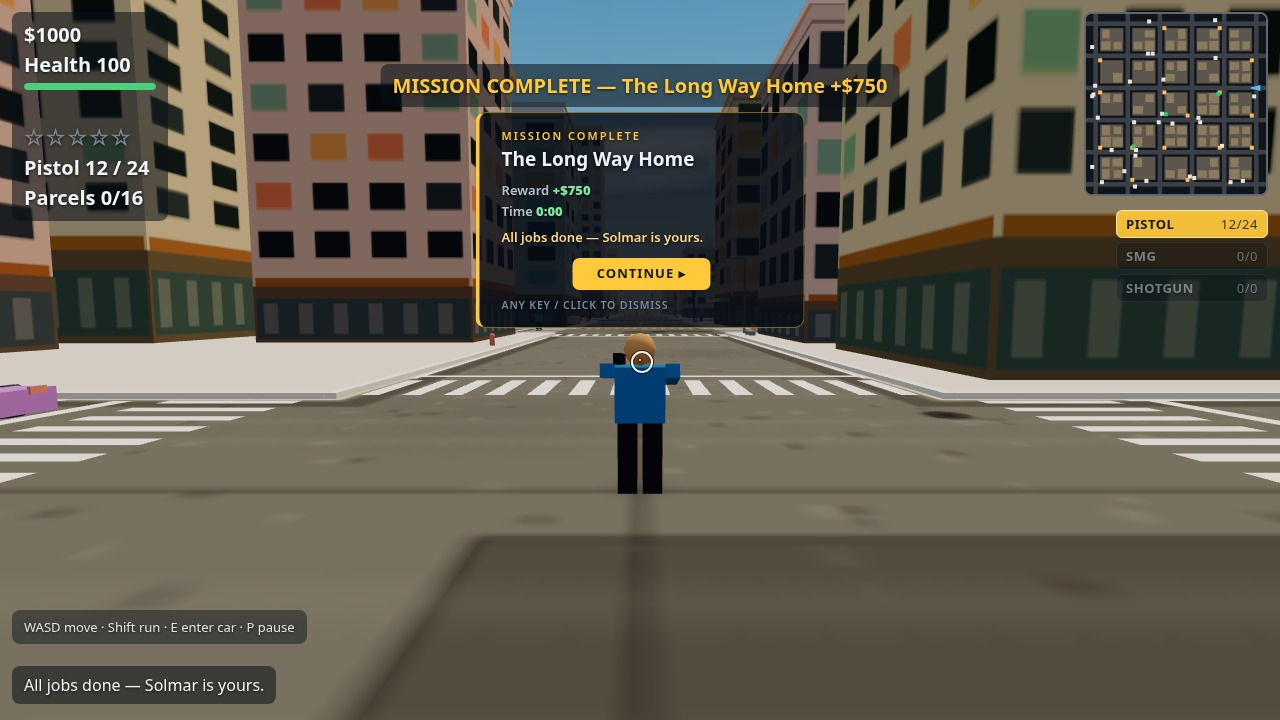
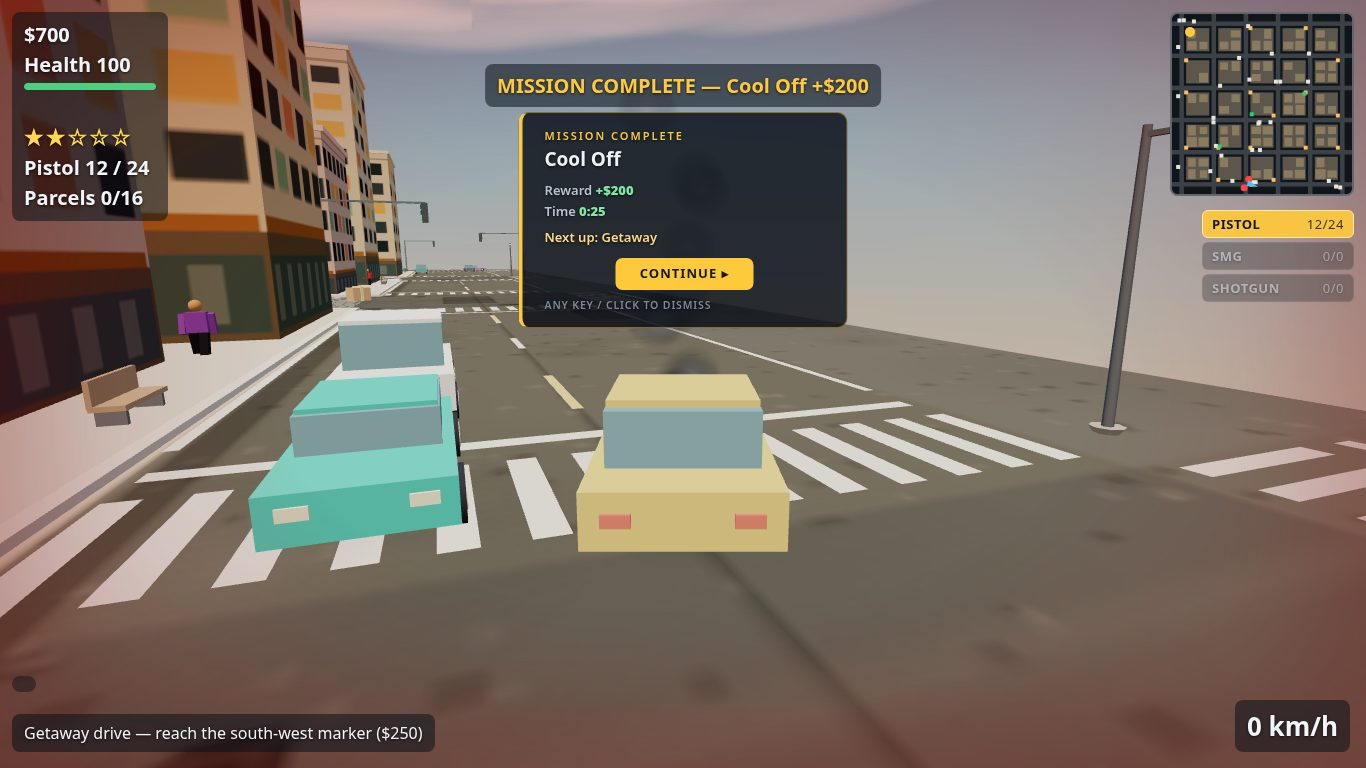
WJ items 3+4: shooting 3/4 angle + level aim, heli soft light, fresh chase/shoot/summary shots

diff --git a/game/src/main.js b/game/src/main.js
@@ -1166,10 +1166,10 @@ function runShot(name) {
     for (let i = 0; i < 40; i += 1) {
       updatePlayer(game.player, STEP, { f: 0, s: 0 }, false, game.camYaw, game.city);
     }
-    if (name === 'shoot') {
-      playerRecoil(game.player);
-      updatePlayer(game.player, STEP, { f: 0, s: 0 }, false, game.camYaw, game.city);
-    }
+    // No recoil kick baked in for the shoot frame (WJ item 3): the kick pitches
+    // the muzzle up ~24 deg, so the gun read as firing at the sky with the weapon
+    // small near the head. The level aim already shows the raised two-handed grip
+    // and the weapon; the live flash (0.18 s) and tracer prove the shot.
   }
   // The chase shot is already a real four-star pursuit with the air unit stepped onto
   // station by shots.js itself, so nothing further is staged here: stepping the police

diff --git a/game/src/shots.js b/game/src/shots.js
@@ -204,7 +204,11 @@ function stageShoot(game) {
   game.player.heading = Math.PI;
   game.player.mesh.position.set(-25, 0, -52);
   game.player.mesh.rotation.y = Math.PI;
-  game.camYaw = 0;
+  // Three-quarter angle from the right-rear (WJ item 3): dead-rear (camYaw 0) hides
+  // the gun behind Rio's torso, so the frame proved shooting only via the HUD. At
+  // 0.7 the raised grip, the weapon, the muzzle flash at the barrel tip and the
+  // tracer toward the rivals are all visible, with the rivals in frame beyond him.
+  game.camYaw = 0.7;
   game.camPitch = 0.22;
   game.wanted = 2;
   game.hint = 'Mouse aim · LMB fire · R reload · 1/2/3 weapon · P pause';
